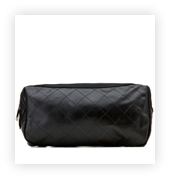
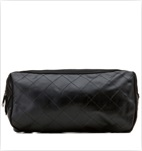
базовая стилизация
картинки пообрезала и доделала карточку товара

diff --git a/css/style.css b/css/style.css
@@ -85,6 +85,8 @@ a {
 }
 
 .index-columns {
+  color: #000000;
+
   background-color: #f8f5f2;
   background-image: url("../img/pattern-light.png");
   background-position: 0 0;
@@ -236,6 +238,38 @@ a {
   background-color: #ffffff;
 }
 
+.product-photo-preview {
+  list-style: none;
+}
+
+.product-photo-preview li {
+  box-shadow: 0px 0px 10px 2px rgba(0, 0, 0, 0.1);
+}
+
+.product-photo-full {
+  box-shadow: 0px 0px 10px 2px rgba(0, 0, 0, 0.1);
+}
+
+.product-article {
+  text-align: right;
+  color: #aeaeae;
+}
+
+.product-price b {
+  line-height: 20px;
+  text-align: center;
+
+  background-color: #e5e5e5;
+}
+
+.product-info h3 {
+  font-size: 24px;
+  line-height: 30px;
+}
+
+.product-info ul {
+  list-style: none;
+}
 
 .main-footer {
   color: #ffffff;

diff --git a/barbershop-item.html b/barbershop-item.html
@@ -88,7 +88,7 @@
       <button class="button" type="submit">Войти</button>
     </form>
     <div class="help">
-      <p><a href="#">Я забыл пароль!</a></p>
+      <a class="restore" href="#">Я забыл пароль!</a>
     </div>
   </section>
 </body>
